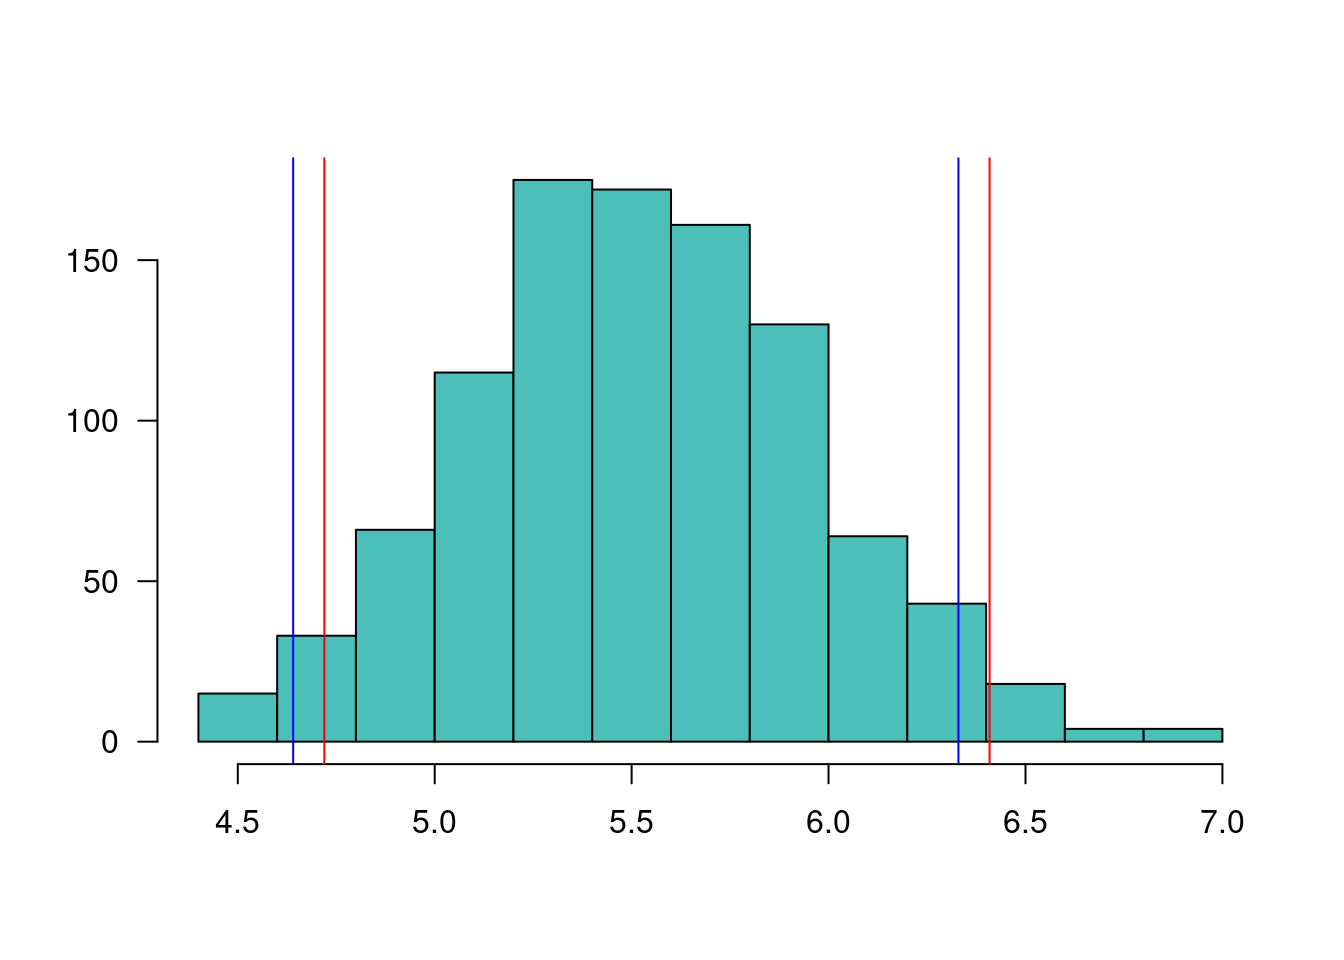
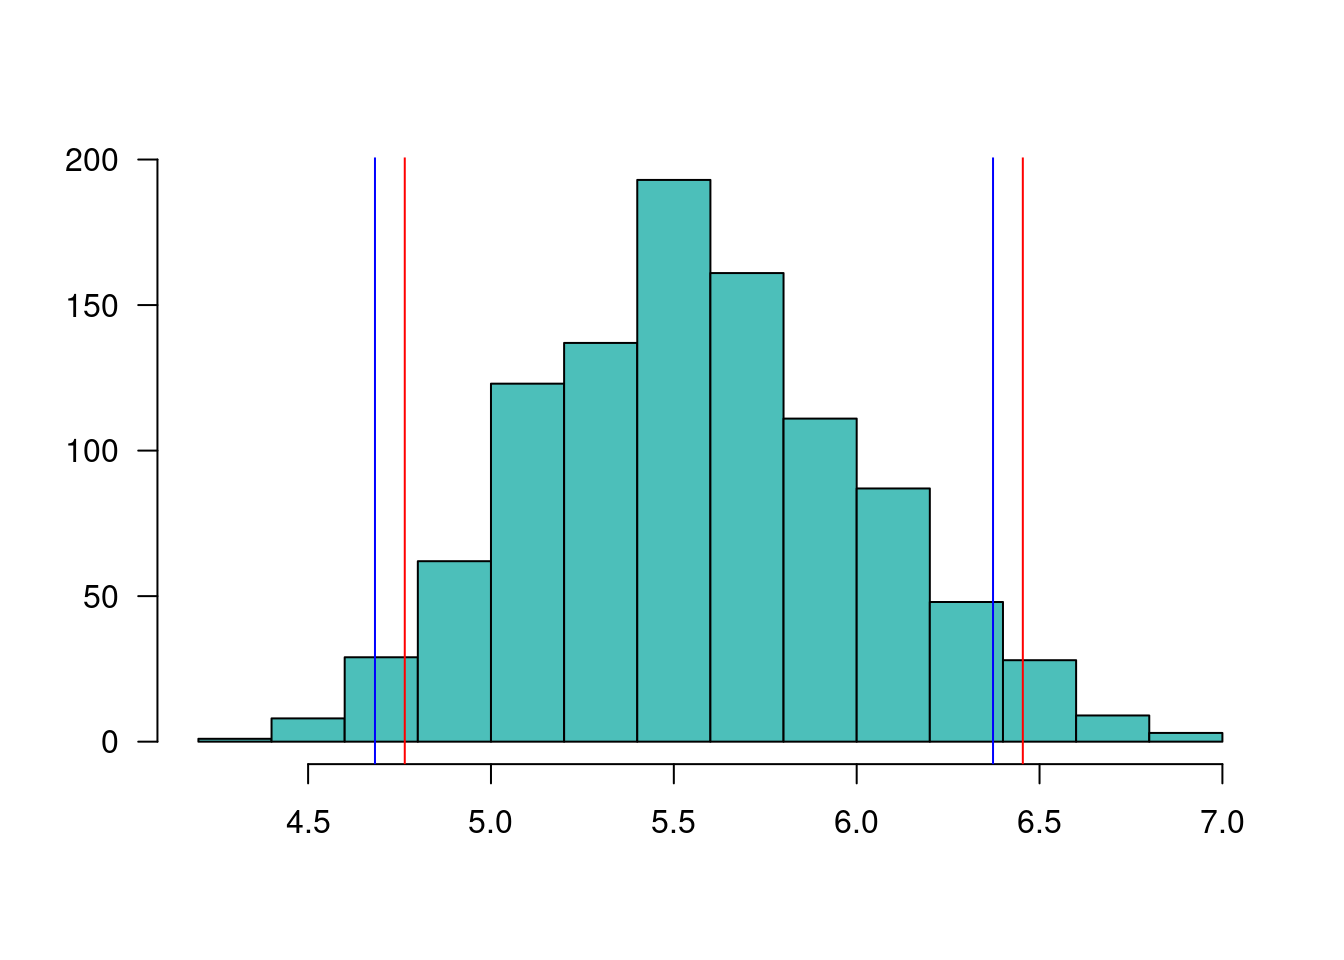
ajustes llamado tutoriales guia 4.2

diff --git a/Guia402.html b/Guia402.html
@@ -632,8 +632,8 @@ siguientes actividades</p>
 <tr class="odd">
 <td align="left"><strong>Actividad 1</strong></td>
 <td align="left">Construir un <strong>mapa mental</strong> sobre
-intervalos de confianza elaborado <strong>a mano</strong>, el cual
-deberá ser entregado en formato pdf</td>
+<strong>intervalos de confianza</strong> elaborado <strong>a
+mano</strong>, el cual deberá ser entregado en formato pdf</td>
 </tr>
 <tr class="even">
 <td align="left">Trabajo individual</td>
@@ -1573,12 +1573,12 @@ mx=apply(b,1,mean)                 # se calculan m medias por fila</code></pre>
 <pre class="r"><code>ic1=quantile(mx, probs=c(0.025, 0.975)) # se calcula IC método 1
 ic1</code></pre>
 <pre><code>    2.5%    97.5% 
-4.719750 6.408893 </code></pre>
+4.764286 6.454286 </code></pre>
 <p><br/><br/></p>
 <pre class="r"><code>ic2=c(2*mean(mx)-ic1[2], 2*mean(mx)-ic1[1]) # se calcula IC método 2
 ic2</code></pre>
-<pre><code>   97.5%     2.5% 
-4.640601 6.329744 </code></pre>
+<pre><code>  97.5%    2.5% 
+4.68282 6.37282 </code></pre>
 <p><br/><br/></p>
 <pre class="r"><code>hist(mx, las=1, main=&quot; &quot;, ylab = &quot; &quot;, xlab = &quot; &quot;, col=c3)
 abline(v=ic1, col=&quot;red&quot;)
@@ -1925,15 +1925,28 @@ align="left"><code>nmu(1.96,345,2)     # nmu(z,sigma2,error)</code></td>
 </iframe>
 <p><br/><br/><br/><br/></p>
 </div>
-<div id="tutorial" class="section level1">
-<h1><strong>Tutorial</strong></h1>
+<div id="tutoriales" class="section level1">
+<h1><strong>Tutoriales</strong></h1>
 <p><br/><br/></p>
-<p>El siguiente código permite la activación de tutorial <br/><br/></p>
+<p>El siguiente código permite la activación de tutoriales :</p>
+<ul>
+<li>Taller-intervalos1</li>
+<li>Taller-intervalos2</li>
+</ul>
+<p><br/><br/></p>
 <pre class="r"><code>install.packages(&quot;learnr&quot;) # solo una vez
 install.packages(&#39;remotes&#39;)  # solo una vez
 library(remotes) # solo una vez
-install_github(&quot;dgonxalex80/paquetepye&quot;, force = TRUE) # solo una vez
-learnr::run_tutorial(&quot;Taller_Intervalos&quot;, &quot;paqueteDEG&quot;)</code></pre>
+install_github(&quot;dgonxalex80/paqueteDEG&quot;, force = TRUE) # solo una vez
+
+learnr::run_tutorial(&quot;Taller-Intervalos1&quot;, &quot;paqueteDEG&quot;)</code></pre>
+<p><br/><br/></p>
+<pre class="r"><code>install.packages(&quot;learnr&quot;) # solo una vez
+install.packages(&#39;remotes&#39;)  # solo una vez
+library(remotes) # solo una vez
+install_github(&quot;dgonxalex80/paqueteDEG&quot;, force = TRUE) # solo una vez
+
+learnr::run_tutorial(&quot;Taller-Intervalos2&quot;, &quot;paqueteDEG&quot;)</code></pre>
 </div>
 
 
